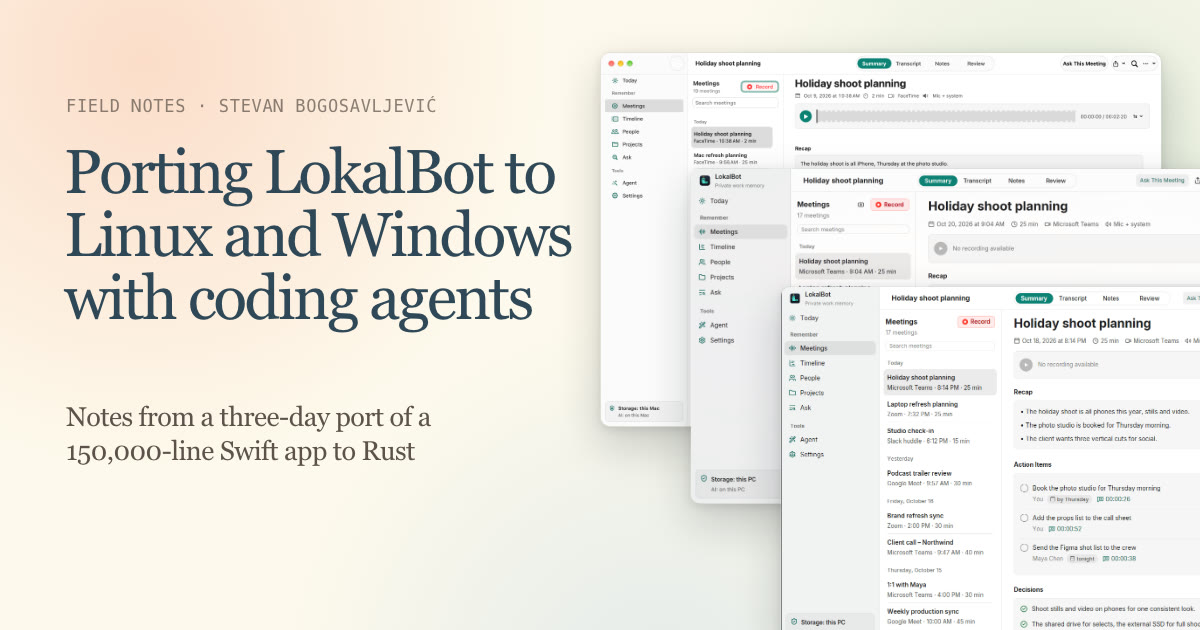
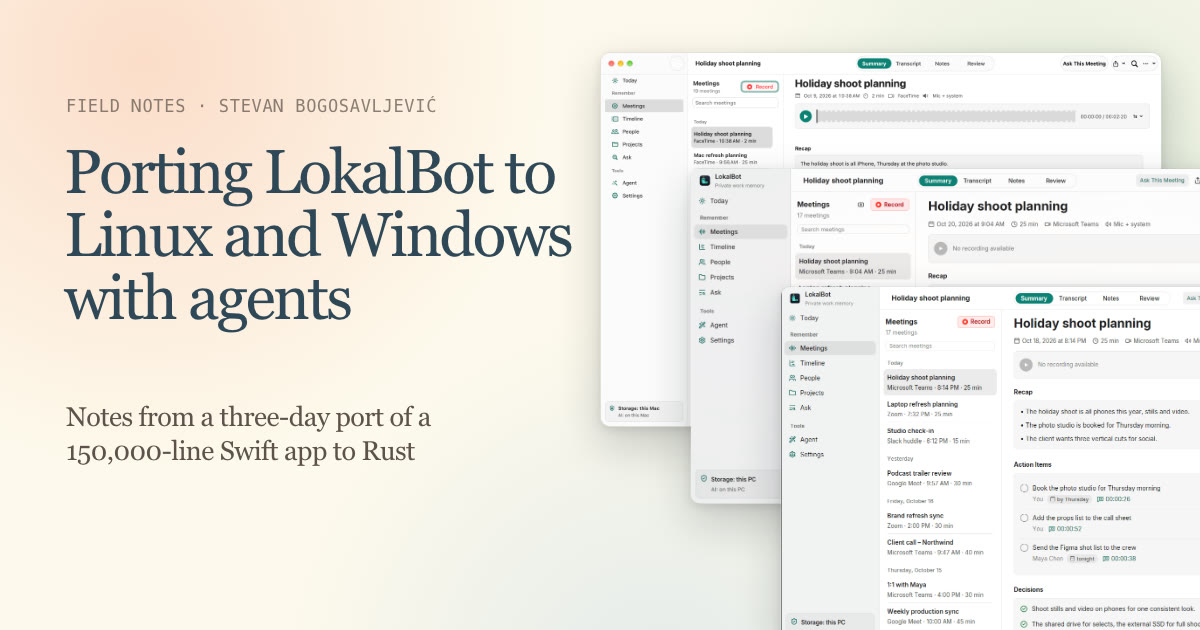
Title the porting post "Porting LokalBot to Linux and Windows with agents"

Changed region(s): [[0.1542, 0.4222, 0.4625, 0.5429]]

diff --git a/blog/posts/porting-lokalbot-to-linux-and-windows/index.html b/blog/posts/porting-lokalbot-to-linux-and-windows/index.html
@@ -3,7 +3,7 @@
   <head>
     <meta charset="UTF-8" />
     <meta name="viewport" content="width=device-width, initial-scale=1.0" />
-    <title>Porting LokalBot to Linux and Windows with coding agents · Field Notes</title>
+    <title>Porting LokalBot to Linux and Windows with agents · Field Notes</title>
     <meta name="description" content="Notes from a three-day port of a 150,000-line Swift app to Rust, including a first attempt that didn&#x27;t work." />
     <link rel="canonical" href="https://stevan.bogosavljevic.me/blog/posts/porting-lokalbot-to-linux-and-windows/" />
     <link rel="icon" type="image/svg+xml" href="/favicon.svg" />
@@ -11,7 +11,7 @@
     <link rel="preconnect" href="https://fonts.gstatic.com" crossorigin />
     <link href="https://fonts.googleapis.com/css2?family=Google+Sans+Flex:opsz,wght%406..72,400..800&family=Newsreader:ital,opsz,wght@0,6..72,400;0,6..72,500;0,6..72,600;1,6..72,400;1,6..72,500&family=Red+Hat+Mono:wght@400;500&display=swap" rel="stylesheet" />
     <link rel="stylesheet" href="../../assets/blog.css" />
-    <meta property="og:title" content="Porting LokalBot to Linux and Windows with coding agents" />
+    <meta property="og:title" content="Porting LokalBot to Linux and Windows with agents" />
     <meta property="og:description" content="Notes from a three-day port of a 150,000-line Swift app to Rust, including a first attempt that didn&#x27;t work." />
     <meta property="og:type" content="article" />
     <meta property="og:url" content="https://stevan.bogosavljevic.me/blog/posts/porting-lokalbot-to-linux-and-windows/" />
@@ -45,7 +45,7 @@
       <section class="hero hero--post" aria-labelledby="post-title">
         <div class="hero-inner">
           <p class="eyebrow">Oct 20, 2026 · AI · Engineering · 9 min read</p>
-          <h1 id="post-title" class="post-hero-title">Porting LokalBot to Linux and Windows with coding agents</h1>
+          <h1 id="post-title" class="post-hero-title">Porting LokalBot to Linux and Windows with agents</h1>
           <p class="hero-subtitle">Notes from a three-day port of a 150,000-line Swift app to Rust, including a first attempt that didn&#x27;t work.</p>
         </div>
       </section>
@@ -148,6 +148,6 @@
       </div>
     </footer>
 
-    <script type="application/ld+json">{"@context": "https://schema.org", "@type": "BlogPosting", "headline": "Porting LokalBot to Linux and Windows with coding agents", "description": "Notes from a three-day port of a 150,000-line Swift app to Rust, including a first attempt that didn't work.", "datePublished": "2026-10-20T16:30:00+02:00", "dateModified": "2026-10-20T16:30:00+02:00", "author": {"@type": "Person", "name": "Stevan Bogosavljević"}, "image": "https://stevan.bogosavljevic.me/blog/posts/porting-lokalbot-to-linux-and-windows/og.jpg", "mainEntityOfPage": "https://stevan.bogosavljevic.me/blog/posts/porting-lokalbot-to-linux-and-windows/", "url": "https://stevan.bogosavljevic.me/blog/posts/porting-lokalbot-to-linux-and-windows/"}</script>
+    <script type="application/ld+json">{"@context": "https://schema.org", "@type": "BlogPosting", "headline": "Porting LokalBot to Linux and Windows with agents", "description": "Notes from a three-day port of a 150,000-line Swift app to Rust, including a first attempt that didn't work.", "datePublished": "2026-10-20T16:30:00+02:00", "dateModified": "2026-10-20T16:30:00+02:00", "author": {"@type": "Person", "name": "Stevan Bogosavljević"}, "image": "https://stevan.bogosavljevic.me/blog/posts/porting-lokalbot-to-linux-and-windows/og.jpg", "mainEntityOfPage": "https://stevan.bogosavljevic.me/blog/posts/porting-lokalbot-to-linux-and-windows/", "url": "https://stevan.bogosavljevic.me/blog/posts/porting-lokalbot-to-linux-and-windows/"}</script>
   </body>
 </html>

diff --git a/blog/posts/inference-bottom-up/index.html b/blog/posts/inference-bottom-up/index.html
@@ -87,7 +87,7 @@
             <p>These are ideal figures from published peak specs. Real software reaches roughly 50 to 80% of them. Compute for the Macs and the DGX Spark is estimated, since Apple doesn't publish it and NVIDIA quotes the Spark in 4-bit.</p>
           </div>
 
-          <nav class="post-nav" aria-label="Adjacent posts"><a href="../porting-lokalbot-to-linux-and-windows/"><span>Newer note</span><strong>Porting LokalBot to Linux and Windows with coding agents</strong></a><a href="../epska-fantastika-123/"><span>Older note</span><strong>Epska fantastika 123</strong></a></nav>
+          <nav class="post-nav" aria-label="Adjacent posts"><a href="../porting-lokalbot-to-linux-and-windows/"><span>Newer note</span><strong>Porting LokalBot to Linux and Windows with agents</strong></a><a href="../epska-fantastika-123/"><span>Older note</span><strong>Epska fantastika 123</strong></a></nav>
         </div>
       </article>
     </main>

diff --git a/blog/posts/the-code-was-the-cheap-part/index.html b/blog/posts/the-code-was-the-cheap-part/index.html
@@ -2,13 +2,13 @@
 <html lang="en">
   <head>
     <meta charset="UTF-8" />
-    <title>Porting LokalBot to Linux and Windows with coding agents · Field Notes</title>
+    <title>Porting LokalBot to Linux and Windows with agents · Field Notes</title>
     <link rel="canonical" href="https://stevan.bogosavljevic.me/blog/posts/porting-lokalbot-to-linux-and-windows/" />
     <meta name="robots" content="noindex" />
     <meta http-equiv="refresh" content="0; url=../porting-lokalbot-to-linux-and-windows/" />
   </head>
   <body>
-    <p>This post moved to <a href="../porting-lokalbot-to-linux-and-windows/">Porting LokalBot to Linux and Windows with coding agents</a>.</p>
+    <p>This post moved to <a href="../porting-lokalbot-to-linux-and-windows/">Porting LokalBot to Linux and Windows with agents</a>.</p>
     <script>location.replace("../porting-lokalbot-to-linux-and-windows/" + location.hash);</script>
   </body>
 </html>

diff --git a/blog/index.html b/blog/index.html
@@ -59,7 +59,7 @@
               <span>9 min read</span>
             </div>
             <div>
-              <h3>Porting LokalBot to Linux and Windows with coding agents</h3>
+              <h3>Porting LokalBot to Linux and Windows with agents</h3>
               <p>Notes from porting LokalBot&#x27;s 150,000-line Swift Mac app to Rust for Linux and Windows, mostly with coding agents, after a first attempt that didn&#x27;t work out.</p>
             </div>
             <span class="archive-arrow" aria-hidden="true">→</span>
